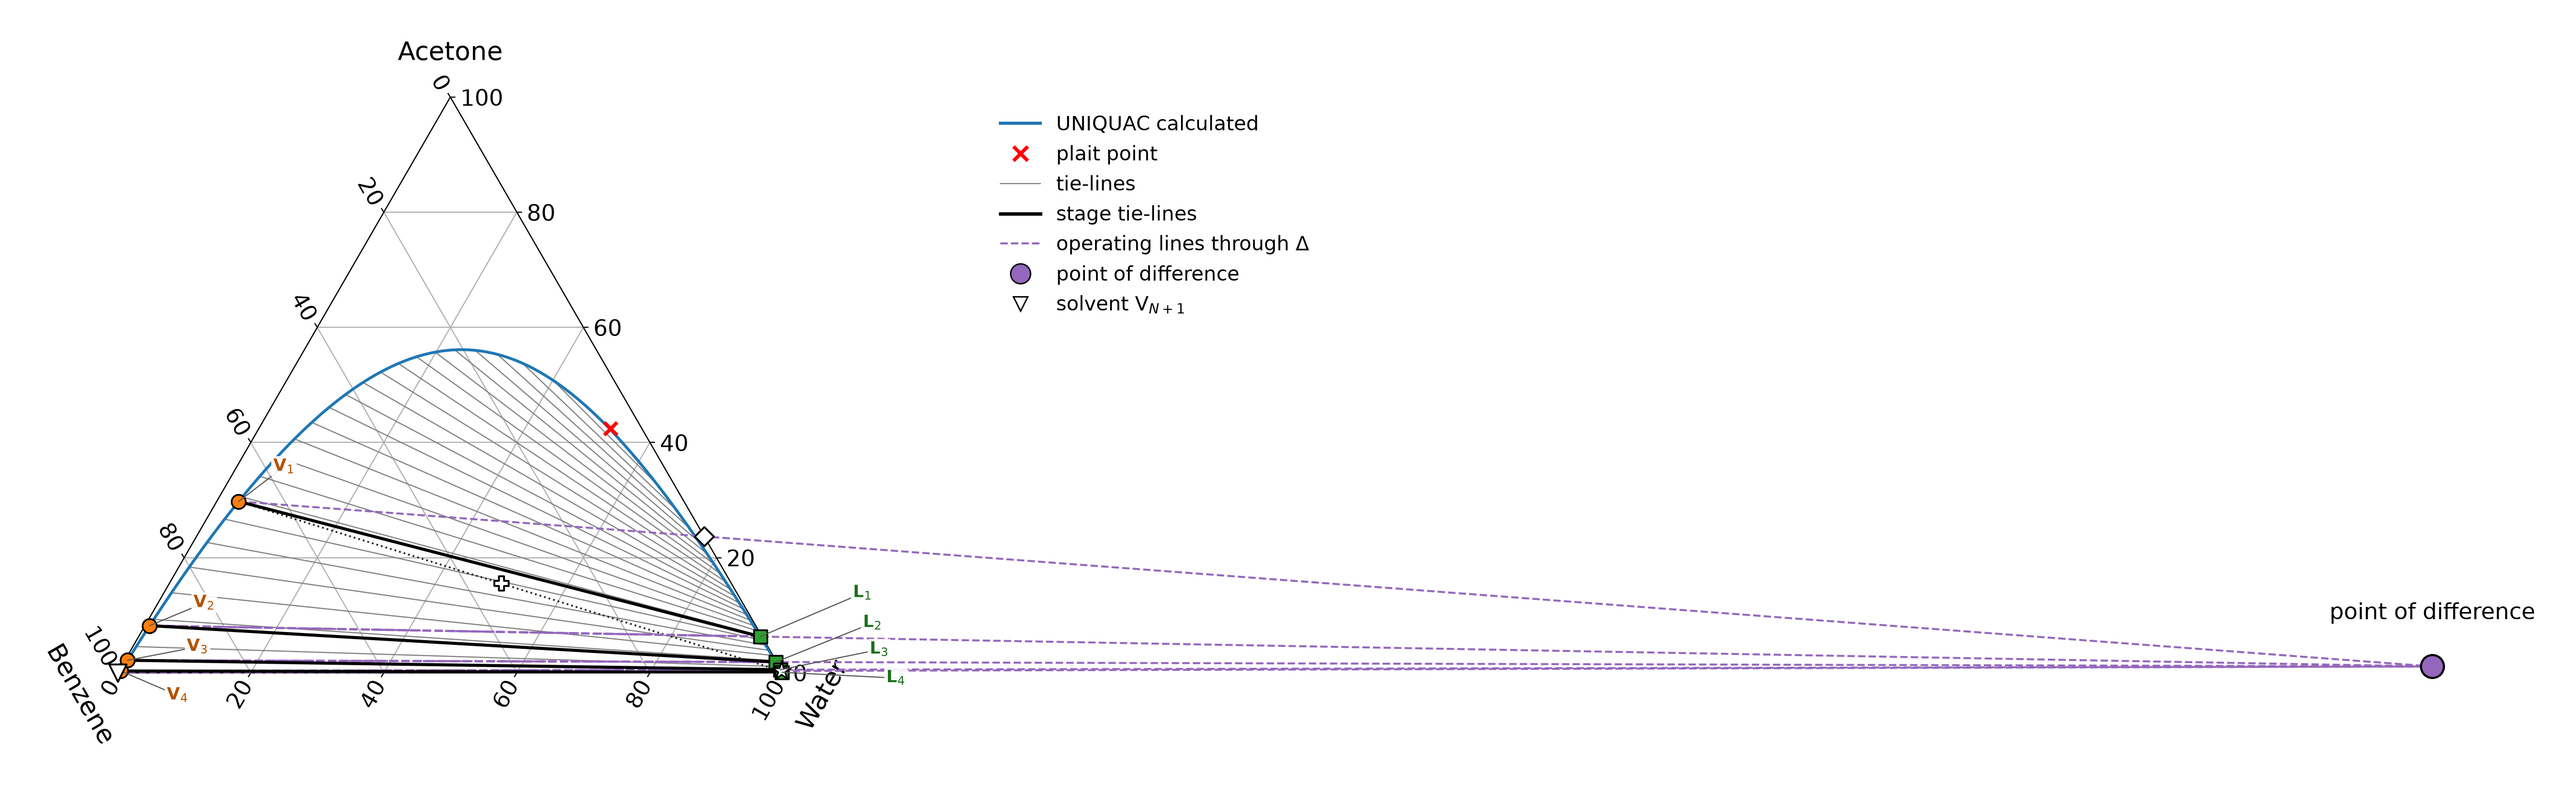
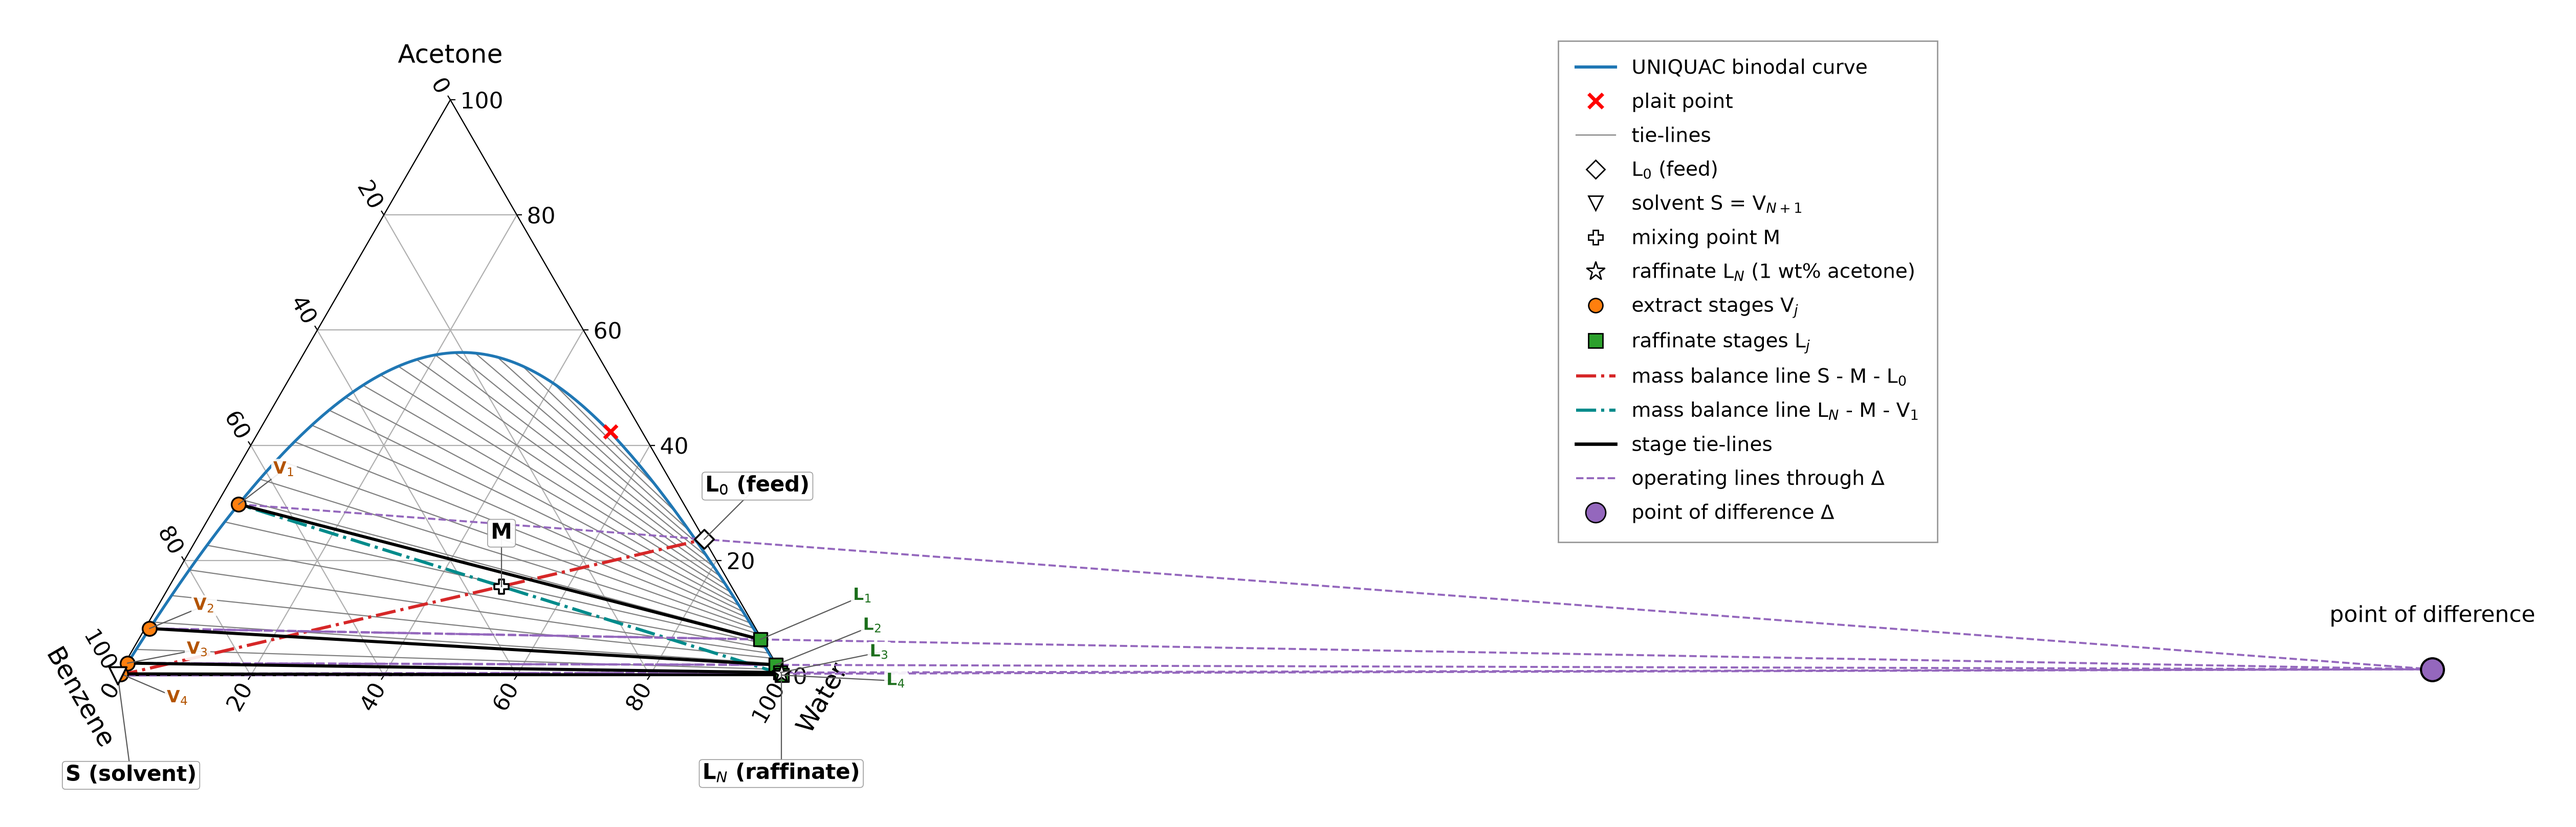
hunter nash

diff --git a/Hunter_Nash_Diagram.py b/Hunter_Nash_Diagram.py
@@ -74,7 +74,25 @@ def in_window(x, lim):
     return np.array(keep)
 
 
-def draw_diagram(ax, size=1.0, lim=None):
+def planar_xy(comp):
+    comp = np.atleast_2d(comp)[0]
+    acet = comp[1] * 100
+    wat = comp[2] * 100
+    return wat + acet / 2, acet * np.sqrt(3) / 2
+
+
+def annotate(ax, comp, text, dx, dy, color="black", fontsize=15):
+    # always-on label with a leader line; (dx, dy) is the text offset from the point, in diagram units
+    px, py = planar_xy(comp)
+    t, l, r = to_ternary(comp)
+    at_t, at_l, at_r = planar_to_ternary(px + dx, py + dy)
+    ax.plot([t[0], at_t], [l[0], at_l], [r[0], at_r], color="0.35", lw=0.8, zorder=11, clip_on=False)
+    ax.text(at_t, at_l, at_r, text, color=color, fontsize=fontsize, ha="center", va="center", zorder=13,
+            fontweight="bold", clip_on=False,
+            bbox=dict(boxstyle="round,pad=0.15", fc="white", ec="0.6", lw=0.6, alpha=0.95))
+
+
+def draw_diagram(ax, size=1.0, lim=None, mb_line=True):
     ax.set_tlabel("Acetone", fontsize=18)
     ax.set_llabel("Benzene", fontsize=18)
     ax.set_rlabel("Water", fontsize=18)
@@ -95,7 +113,8 @@ def draw_diagram(ax, size=1.0, lim=None):
     ax.plot([0, 0], [100, 0], [0, 100], color="grey", lw=0.8, zorder=2)
 
     #LN - M - V1
-    stage_line(ax, x_LN, x_V1, color="0.15", lw=1.4 * size, ls=":", zorder=6)
+    if mb_line:
+        stage_line(ax, x_LN, x_V1, color="0.15", lw=1.4 * size, ls=":", zorder=6)
 
     #operating lines (L_j - V_j+1) pointing toa difference point
     for (x_L, y_V) in ops:
@@ -200,7 +219,13 @@ plt.savefig("Hunter_Nash_Zoom.png", dpi=150, bbox_inches="tight", pad_inches=0.4
 # ---------------- difference point: the operating lines are extended until they meet in Delta ----------------
 fig3 = plt.figure(figsize=(26, 8))
 ax_d = fig3.add_axes([0.03, 0.12, 0.25, 0.78], projection="ternary", ternary_sum=100.0)
-draw_diagram(ax_d, 0.9)
+draw_diagram(ax_d, 0.9, mb_line=False)
+
+#overall mass balance: F + S = M = L_N + V_1. The S-F line and the L_N-V_1 line cross at the mixing point M
+MB_F_COLOR = "tab:red"
+MB_P_COLOR = "darkcyan"
+stage_line(ax_d, x_VN1, x_L0, color=MB_F_COLOR, lw=2.2, ls="-.", zorder=6)
+stage_line(ax_d, x_LN, x_V1, color=MB_P_COLOR, lw=2.2, ls="-.", zorder=6)
 
 #operating lines extended beyond the diagram, V_j+1 -> L_j -> Delta (the first one is V1 -> L0 -> Delta)
 operating_ends = [x_V1] + [y_V for (x_L, y_V) in ops]
@@ -218,8 +243,10 @@ planar_x = Delta[2] * 100 + Delta[1] * 50
 planar_y = Delta[1] * 100 * np.sqrt(3) / 2
 ax_d.text(*planar_to_ternary(planar_x, planar_y + 8), "point of difference", fontsize=16, ha="center", va="center",
           clip_on=False, bbox=dict(boxstyle="round,pad=0.2", fc="white", ec="none", alpha=0.9))
-label(ax_d, x_VN1, "V$_{N+1}$ (solvent)", (-8, -14), "black", 14)
-label(ax_d, x_L0, "L$_0$ (feed)", (76, 29), "black", 14)
+annotate(ax_d, x_VN1, "S (solvent)", 2, -15)
+annotate(ax_d, x_L0, "L$_0$ (feed)", 8, 8)
+annotate(ax_d, M, "M", 0, 8)
+annotate(ax_d, x_LN, "L$_N$ (raffinate)", 0, -15)
 label(ax_d, Vs[0], "V$_1$", (25, 31), V_color, 12)
 label(ax_d, Vs[1], "V$_2$", (13, 10.5), V_color, 12)
 label(ax_d, Vs[2], "V$_3$", (12, 3.9), V_color, 12)
@@ -230,15 +257,26 @@ label(ax_d, Ls[2], "L$_3$", (114.5, 3.5), L_color, 12)
 label(ax_d, Ls[3], "L$_4$", (117, -0.8), L_color, 12)
 
 handles_d = [
-    Line2D([], [], color="tab:blue", lw=2.2, label="UNIQUAC calculated"),
+    # equilibrium data
+    Line2D([], [], color="tab:blue", lw=2.2, label="UNIQUAC binodal curve"),
     Line2D([], [], color="red", marker="x", ls="none", ms=10, mew=2.5, label="plait point"),
     Line2D([], [], color="grey", lw=0.8, label="tie-lines"),
+    # streams
+    Line2D([], [], color="white", mec="black", marker="D", ls="none", ms=9, label="L$_0$ (feed)"),
+    Line2D([], [], color="white", mec="black", marker="v", ls="none", ms=10, label="solvent S = V$_{N+1}$"),
+    Line2D([], [], color="white", mec="black", marker="P", ls="none", ms=10, label="mixing point M"),
+    Line2D([], [], color="white", mec="black", marker="*", ls="none", ms=14, label="raffinate L$_N$ (1 wt% acetone)"),
+    Line2D([], [], color="tab:orange", mec="black", marker="o", ls="none", ms=10, label="extract stages V$_j$"),
+    Line2D([], [], color="tab:green", mec="black", marker="s", ls="none", ms=10, label="raffinate stages L$_j$"),
+    # construction lines
+    Line2D([], [], color=MB_F_COLOR, lw=2.2, ls="-.", label="mass balance line S - M - L$_0$"),
+    Line2D([], [], color=MB_P_COLOR, lw=2.2, ls="-.", label="mass balance line L$_N$ - M - V$_1$"),
     Line2D([], [], color="black", lw=2.4, label="stage tie-lines"),
     Line2D([], [], color="tab:purple", lw=1.4, ls="--", label="operating lines through $\\Delta$"),
-    Line2D([], [], color="tab:purple", mec="black", marker="o", ls="none", ms=14, label="point of difference"),
-    Line2D([], [], color="white", mec="black", marker="v", ls="none", ms=10, label="solvent V$_{N+1}$"),
+    Line2D([], [], color="tab:purple", mec="black", marker="o", ls="none", ms=14, label="point of difference $\\Delta$"),
 ]
-ax_d.legend(handles=handles_d, loc="upper left", bbox_to_anchor=(1.3, 1.0), frameon=False, fontsize=14)
+leg = ax_d.legend(handles=handles_d, loc="upper left", bbox_to_anchor=(2.15, 1.12), frameon=True, fancybox=False,
+                  edgecolor="0.6", framealpha=1.0, fontsize=14, labelspacing=0.7, borderpad=0.9)
 plt.savefig("Hunter_Nash_Delta.png", dpi=200, bbox_inches="tight", pad_inches=0.4)
 
 plt.show()

diff --git a/inf_dilution.py b/inf_dilution.py
@@ -2,7 +2,7 @@ import numpy as np
 from UNIQUAC import UNIQUAC
 
 u = np.array([
-    [0.0, 907.180, 295.280],
+    [0.0, 295.280, 907.180],
     [-165.93, 0.0, 356.300],
     [268.16, -78.297, 0.0]
 ])
